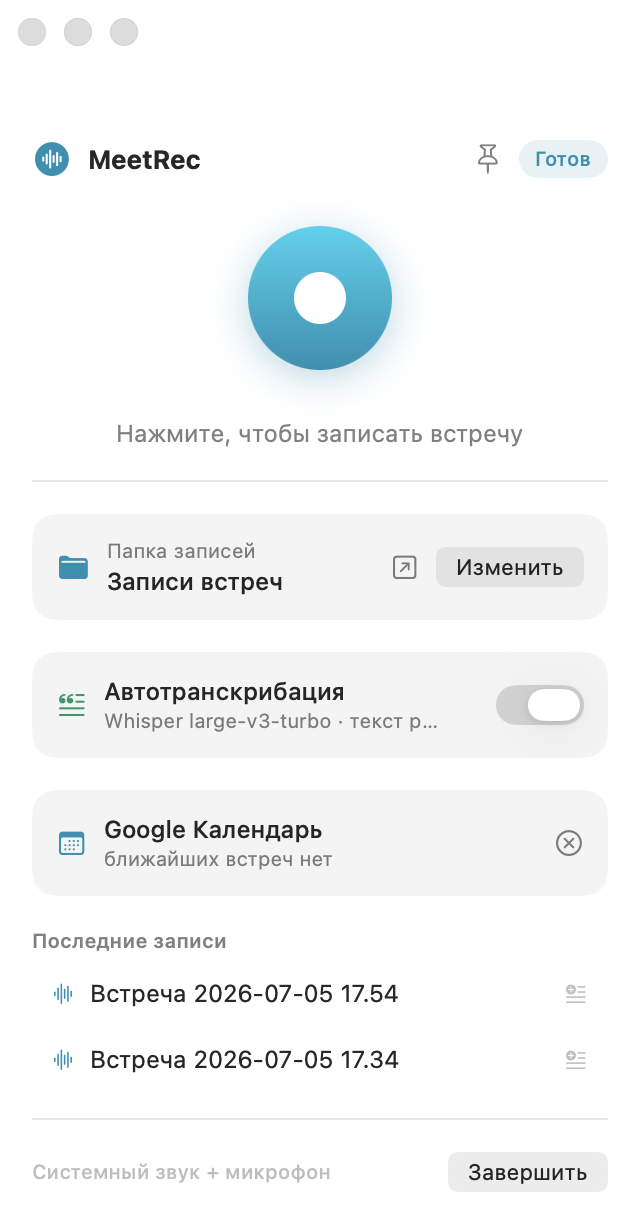
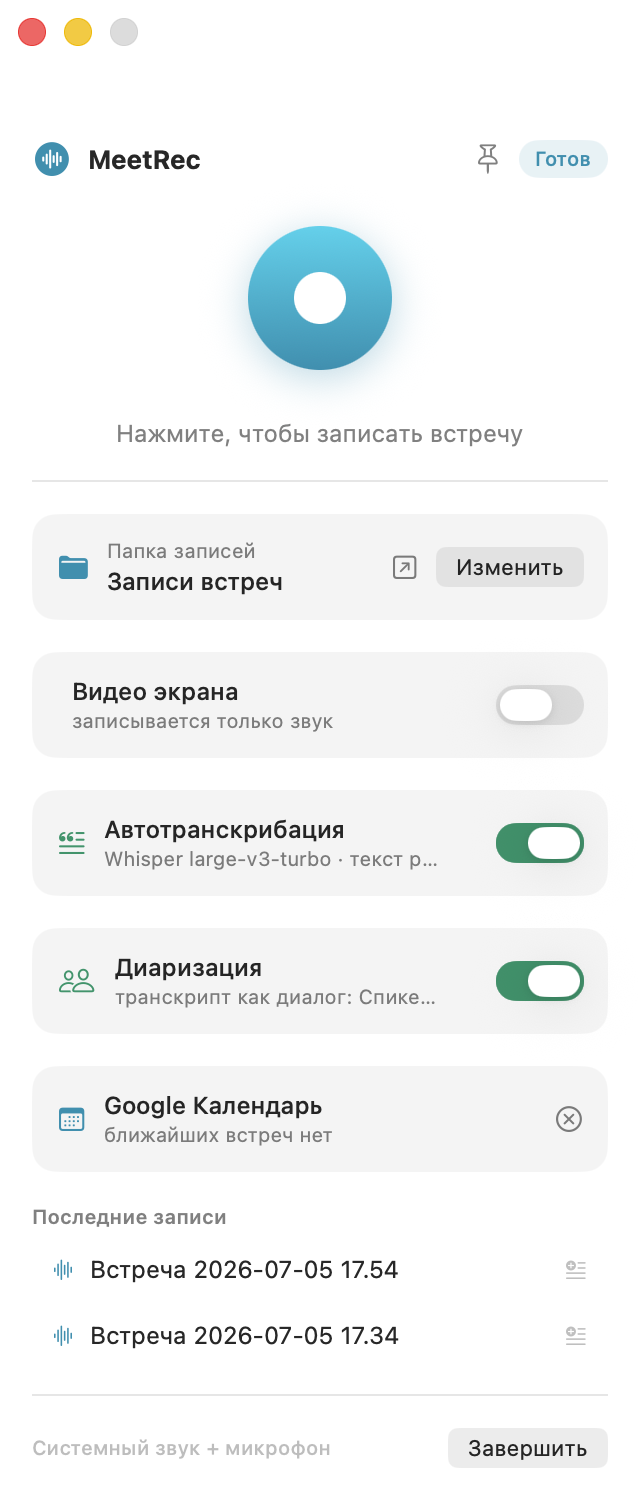
v1.5: автозапуск при входе, актуализация документации (#1)
Галочка «Автозапуск при входе» в окне (SMAppService) — MeetRec
регистрируется как login item. README: описание кнопки приведено
в соответствие интерфейсу (круглая, краснеет при записи), раздел
«Планы» убран, заметки об архитектуре учитывают видеозапись,
раздел приватности упоминает модели диаризации. Свежий скриншот.

diff --git a/app/Sources/AppState.swift b/app/Sources/AppState.swift
@@ -3,6 +3,7 @@ import AVFoundation
 import CoreGraphics
 import Foundation
 import ScreenCaptureKit
+import ServiceManagement
 import SwiftUI
 import UserNotifications
 
@@ -44,6 +45,24 @@ final class AppState: ObservableObject {
     @Published var diarize: Bool {
         didSet { UserDefaults.standard.set(diarize, forKey: "diarize") }
     }
+    @Published var launchAtLogin: Bool {
+        didSet {
+            guard !suppressLoginItemUpdate, launchAtLogin != oldValue else { return }
+            do {
+                if launchAtLogin {
+                    try SMAppService.mainApp.register()
+                } else {
+                    try SMAppService.mainApp.unregister()
+                }
+            } catch {
+                errorMessage = "Автозапуск: \(error.localizedDescription)"
+                suppressLoginItemUpdate = true
+                launchAtLogin = oldValue
+                suppressLoginItemUpdate = false
+            }
+        }
+    }
+    private var suppressLoginItemUpdate = false
     @Published var recordingSizeText: String?
     @Published var transcribeProgress: [URL: String] = [:]
     @Published var modelStatus: String?
@@ -74,6 +93,7 @@ final class AppState: ObservableObject {
         autoTranscribe = UserDefaults.standard.object(forKey: "autoTranscribe") as? Bool ?? true
         captureVideo = UserDefaults.standard.bool(forKey: "captureVideo")
         diarize = UserDefaults.standard.bool(forKey: "diarize")
+        launchAtLogin = SMAppService.mainApp.status == .enabled
         Self.shared = self
         checkModelUpdate()
 

diff --git a/app/Sources/ContentView.swift b/app/Sources/ContentView.swift
@@ -407,9 +407,15 @@ struct ContentView: View {
 
     private var footer: some View {
         HStack {
-            Text("Системный звук + микрофон")
-                .font(.caption2)
-                .foregroundStyle(.tertiary)
+            Toggle(isOn: $state.launchAtLogin) {
+                Text("Автозапуск при входе")
+                    .font(.caption)
+                    .foregroundStyle(.secondary)
+            }
+            .toggleStyle(.checkbox)
+            .controlSize(.small)
+            .pointingCursor()
+            .help("Запускать MeetRec при входе в систему")
             Spacer()
             Button("Завершить") {
                 state.quit()

diff --git a/README.en.md b/README.en.md
@@ -23,7 +23,7 @@ Every meeting tool records only itself. MeetRec records **any** meeting — Zoom
 
 ## Features
 
-- **One-click recording** — big red button in a compact window, or straight from the menu bar; a live timer sits next to the clock while recording.
+- **One-click recording** — a big round button in a compact window (turns red and pulses while recording), or start straight from the menu bar; a live timer sits next to the clock.
 - **System audio + microphone** captured simultaneously via ScreenCaptureKit and mixed into one stereo AAC file (48 kHz).
 - **Local transcription** — [whisper.cpp](https://github.com/ggml-org/whisper.cpp) with the `large-v3-turbo` model, Metal-accelerated. An hour of audio takes ~4–6 minutes in the background. Language is auto-detected (Russian, English, and 90+ others).
 - **Timestamped Markdown transcripts** (`[03:12] …`) saved next to each recording — ready to paste into your favorite LLM.
@@ -32,7 +32,7 @@ Every meeting tool records only itself. MeetRec records **any** meeting — Zoom
 - **Google Drive aware** — if Google Drive for desktop is installed, recordings go to *My Drive → Записи встреч* and sync to the cloud automatically.
 - **Google Calendar integration** — recordings are named after the current meeting, attendees go into the transcript header, and a "Meeting started" notification offers one-click recording. See [setup below](#google-calendar-optional).
 - **Screen video recording (optional)** — a toggle captures the whole screen at 30 fps (HEVC, hardware-encoded, ~0.7–1.5 GB/hour) alongside audio. An `.mp4` with the mixed audio appears next to the `.m4a`; file size is shown live while recording.
-- **Stays out of your way** — movable window with a pin-on-top toggle, quick actions in the menu bar.
+- **Stays out of your way** — movable window with a pin-on-top toggle, quick actions in the menu bar, launch-at-login checkbox.
 
 ## Installation
 
@@ -99,7 +99,7 @@ AVFoundation ──────► microphone  ──┘                        
                                               whisper.cpp (Metal) ─► transcript .md with timestamps
 ```
 
-- The recorder writes both sources as separate tracks and mixes them down on stop; if the mixdown ever fails, the raw two-track file is kept, so a recording is never lost.
+- The recorder writes the sources as separate tracks (plus a video track when enabled) and mixes them down on stop; if the mixdown ever fails, the raw multi-track file is kept, so a recording is never lost.
 - `whisper-cli` is statically compiled (Metal embedded, system frameworks only) and bundled inside the app — the DMG is fully self-contained.
 - Transcription runs `afconvert` → `whisper-cli` → JSON → Markdown, entirely offline.
 
@@ -118,12 +118,6 @@ A minimal CLI variant also lives in the repo: `swiftc -O -parse-as-library MeetR
 ## Privacy
 
 MeetRec only goes online to fetch models (Whisper and diarization — from Hugging Face, once) and the recommended-models manifest `models.json` in this repository; with Google Calendar connected, it also calls the Calendar API (read-only). Audio and transcripts never leave your Mac. Always make sure recording meetings is legal in your jurisdiction and that participants are informed.
-
-## Roadmap
-
-- One-click “analyze in Claude” (summary, action items)
-- Window/display picker for video recording
-- Launch at login
 
 ## License
 

diff --git a/README.md b/README.md
@@ -23,7 +23,7 @@
 
 ## Возможности
 
-- **Запись в один клик** — большая красная кнопка в компактном окне или прямо из строки меню; во время записи рядом с часами тикает таймер.
+- **Запись в один клик** — большая круглая кнопка в компактном окне (краснеет и пульсирует во время записи) или старт прямо из строки меню; рядом с часами тикает таймер.
 - **Системный звук + микрофон** записываются одновременно через ScreenCaptureKit и сводятся в один стереофайл AAC (48 кГц).
 - **Локальная транскрибация** — [whisper.cpp](https://github.com/ggml-org/whisper.cpp) с моделью `large-v3-turbo`, ускорение на Metal. Час аудио — примерно 4–6 минут в фоне. Язык определяется автоматически (русский, английский и ещё 90+).
 - **Markdown-расшифровки с таймкодами** (`[03:12] …`) рядом с каждой записью — готовы для вставки в любую LLM.
@@ -32,7 +32,7 @@
 - **Дружит с Google Диском** — если установлен Google Drive для рабочего стола, записи попадают в *Мой диск → Записи встреч* и автоматически синхронизируются.
 - **Интеграция с Google Календарём** — автоназвание записей по текущей встрече, участники в шапке транскрипта, уведомление «Встреча началась» с кнопкой «Записать». См. [настройку ниже](#google-календарь-опционально).
 - **Видео экрана (опционально)** — тумблер в окне: вместе со звуком пишется весь экран в 30 к/с (HEVC, аппаратное кодирование, ~0,7–1,5 ГБ/час). Рядом с аудио появляется `.mp4` с тем же сведённым звуком; размер файла виден прямо во время записи.
-- **Не мешает работать** — перетаскиваемое окно с булавкой «поверх всех окон», быстрые действия в строке меню.
+- **Не мешает работать** — перетаскиваемое окно с булавкой «поверх всех окон», быстрые действия в строке меню, автозапуск при входе в систему (галочка в окне).
 
 ## Установка
 
@@ -101,7 +101,7 @@ AVFoundation ──────► микрофон ───────┘    
                                         whisper.cpp (Metal) ─► расшифровка .md с таймкодами
 ```
 
-- Рекордер пишет оба источника отдельными дорожками и сводит их при остановке; если сведение не удастся, сохраняется «сырой» двухдорожечный файл — запись не теряется.
+- Рекордер пишет источники отдельными дорожками (плюс видеодорожка, если включено видео) и сводит их при остановке; если сведение не удастся, сохраняется «сырой» многодорожечный файл — запись не теряется.
 - `whisper-cli` собран статически (Metal встроен, только системные зависимости) и вшит в приложение — DMG полностью самодостаточен.
 - Транскрибация: `afconvert` → `whisper-cli` → JSON → Markdown, полностью офлайн.
 
@@ -123,12 +123,6 @@ cd MeetRec
 ## Приватность
 
 MeetRec выходит в сеть только за моделями (Whisper и диаризация — с Hugging Face, один раз) и за списком рекомендованных моделей `models.json` в этом репозитории; при подключённом Google Календаре — ещё к Calendar API (только чтение). Аудио и расшифровки не покидают ваш Mac. Убедитесь, что запись встреч законна в вашей юрисдикции и участники предупреждены.
-
-## Планы
-
-- «Разобрать в Claude» в один клик (саммари, action items)
-- Выбор окна/дисплея для видеозаписи
-- Автозапуск при входе в систему
 
 ## Лицензия
 

diff --git a/CHANGELOG.md b/CHANGELOG.md
@@ -4,6 +4,16 @@ All notable changes to this project are documented here.
 The format follows [Keep a Changelog](https://keepachangelog.com/en/1.1.0/),
 and the project adheres to [Semantic Versioning](https://semver.org/).
 
+## [1.5] — 2026-07-05
+
+### Added
+- **Launch at login**: a checkbox in the window footer registers MeetRec as a
+  login item (SMAppService), so recording is always one click away.
+
+### Fixed
+- README accuracy pass: button description matched to the actual UI, roadmap
+  section removed, architecture notes updated for video recording.
+
 ## [1.4] — 2026-07-05
 
 ### Added